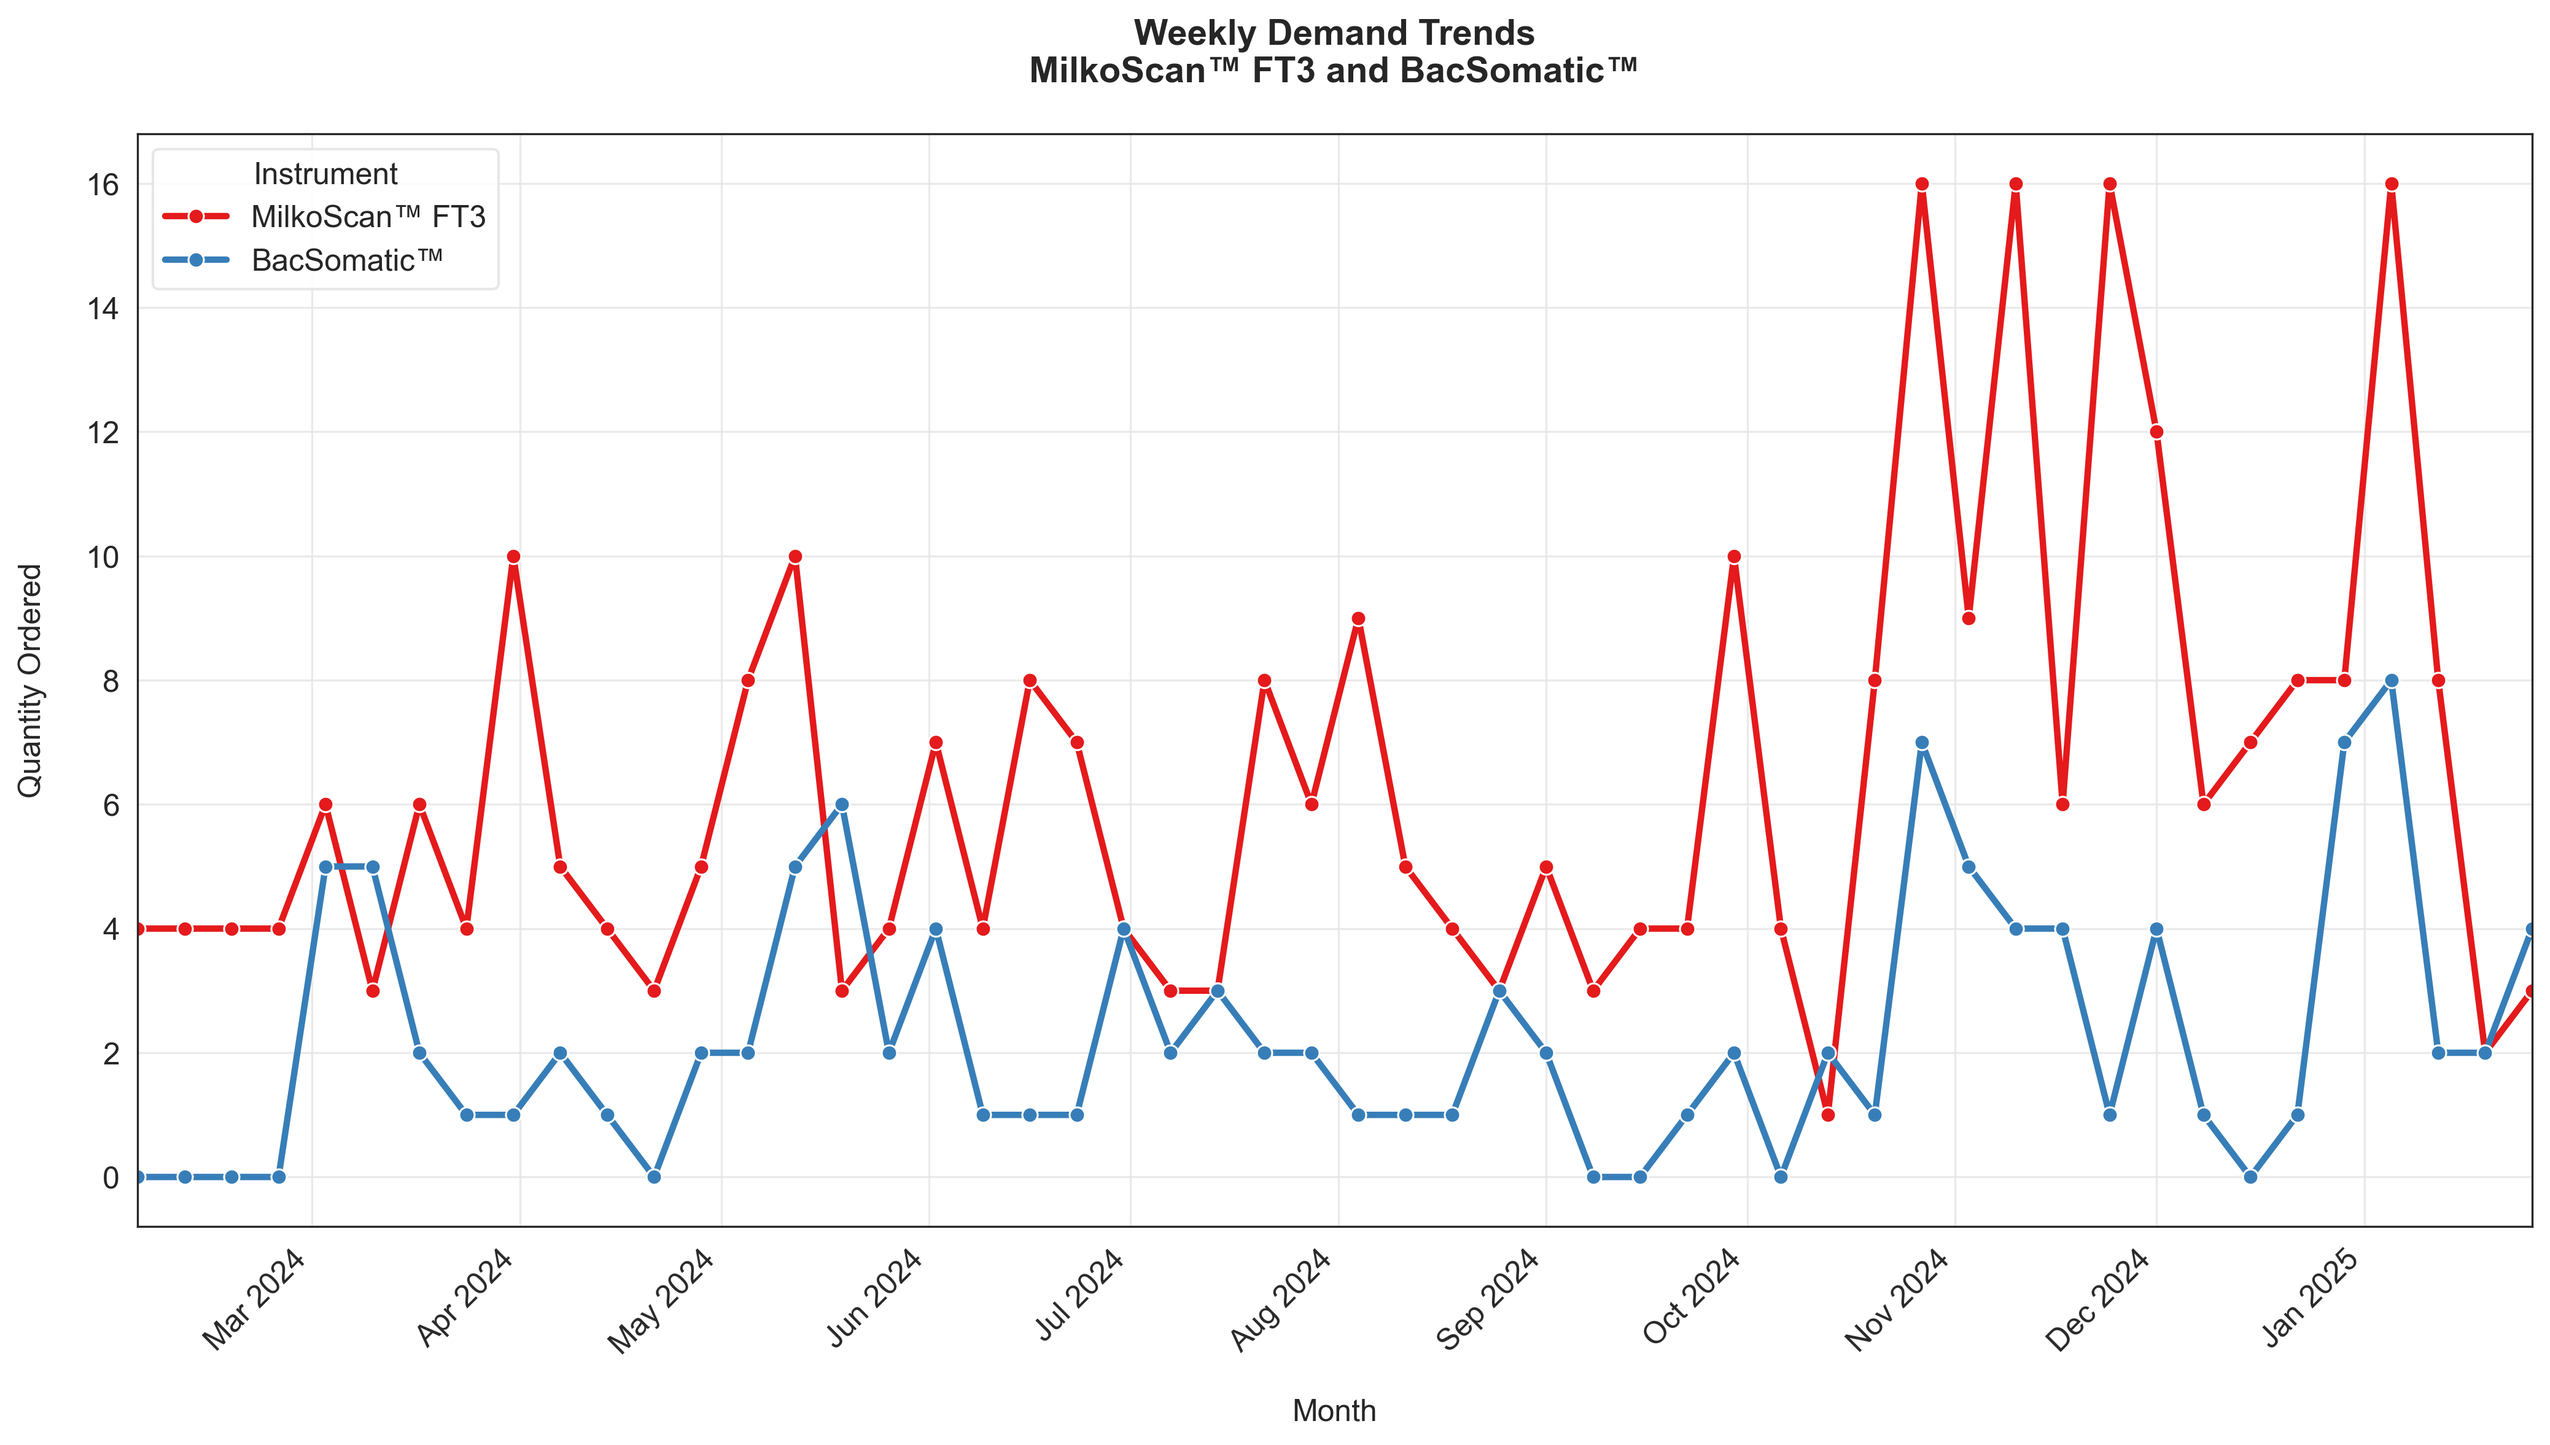
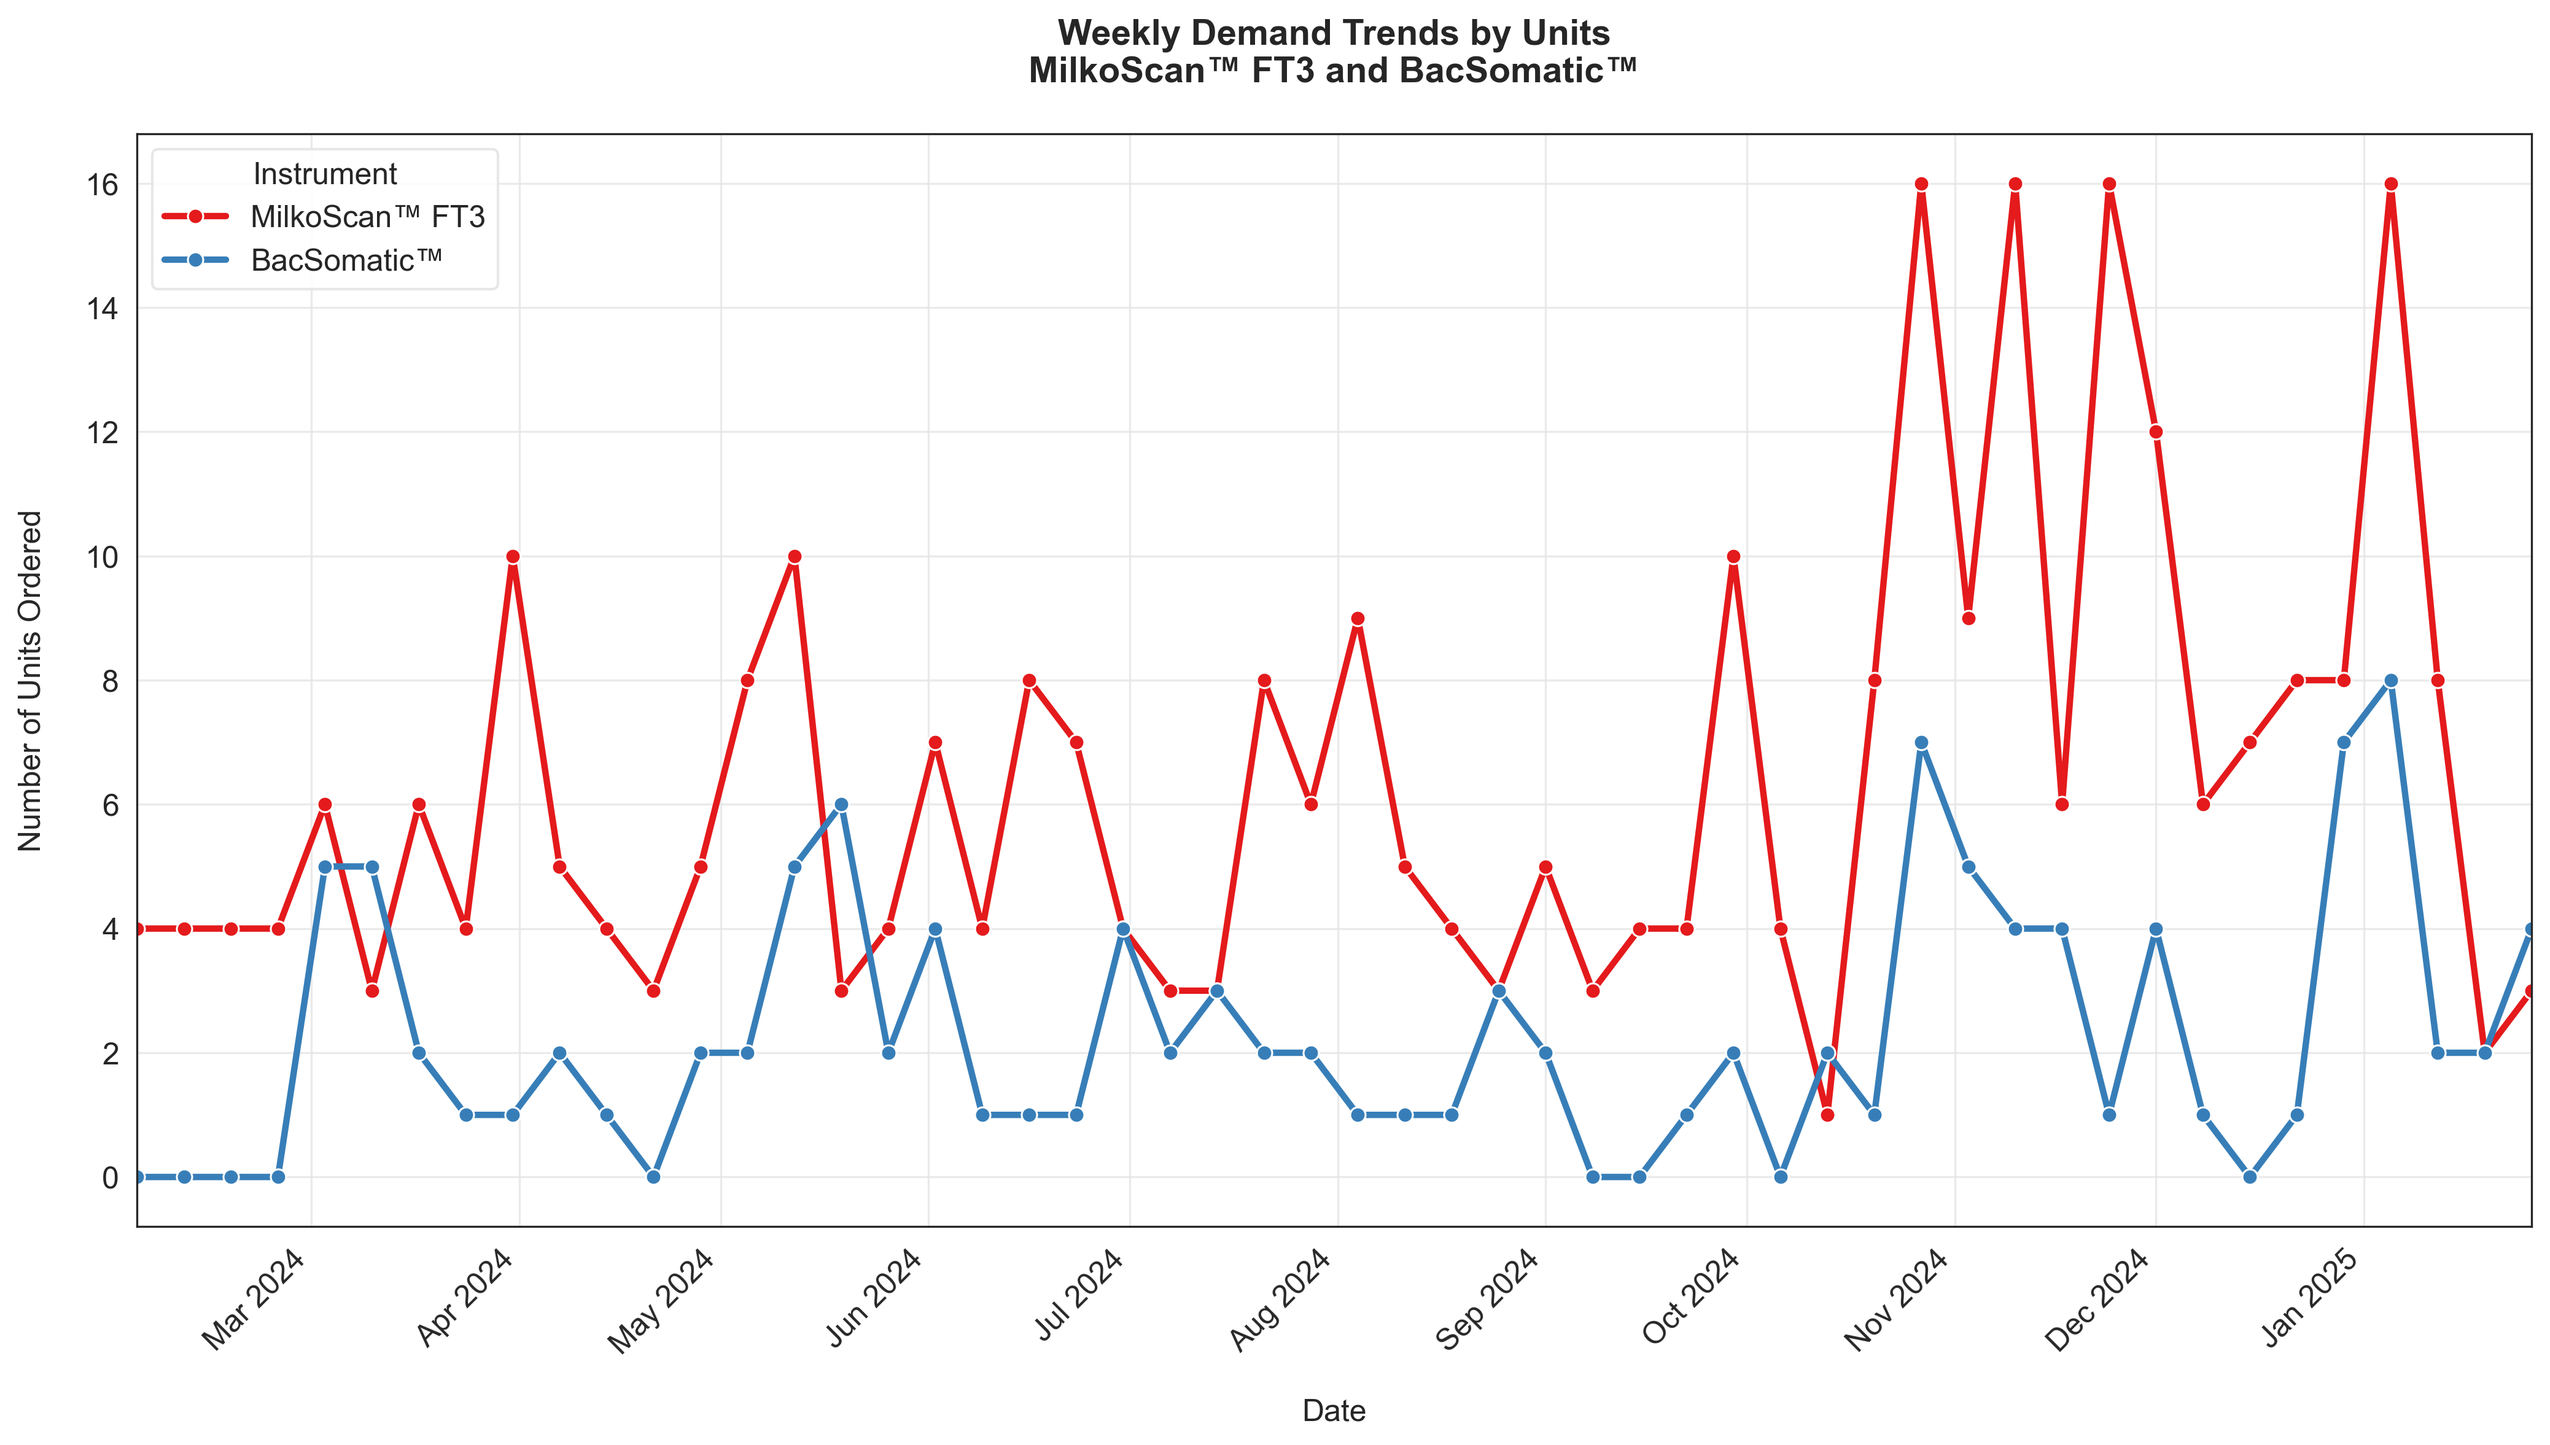
final plots

diff --git a/demand.py b/demand.py
@@ -109,6 +109,9 @@ data = pd.read_csv(file_path, encoding='Windows-1252')
 # Ensure the OrderDate column is in datetime format
 data['OrderDate'] = pd.to_datetime(data['OrderDate'], format='%d-%m-%y')
 
+# Convert the Qty. column to numeric to avoid string operations later
+data['Qty.'] = pd.to_numeric(data['Qty.'], errors='coerce').fillna(0)
+
 # Filter data for the specific instruments, including variations
 filtered_data = data[data['Instrument'].str.contains('MilkoScan™ FT3|BacSomatic™', na=False, case=False)]
 
@@ -151,8 +154,8 @@ for instrument in ['MilkoScan™ FT3', 'BacSomatic™']:
                 color=instrument_colors[instrument])
 
 set_consistent_date_axis(ax, weekly_data.index)
-apply_consistent_style(ax, "Weekly Demand Trends\nMilkoScan™ FT3 and BacSomatic™", 
-                      "Month", "Quantity Ordered", "Instrument")
+apply_consistent_style(ax, "Weekly Demand Trends by Units\nMilkoScan™ FT3 and BacSomatic™", 
+                      "Date", "Number of Units Ordered", "Instrument")
 
 plt.savefig(os.path.join(plots_dir, 'weekly_demand_smoothed.png'), dpi=300, bbox_inches='tight', facecolor='white')
 plt.close()
@@ -170,6 +173,60 @@ print(weekly_data.mean())
 
 print("\n=== HEAD OF RATIO TIME SERIES ===")
 print(weekly_data['Ratio_MilkoScan_to_BacSomatic'].head())
+
+# Calculate total sales by instrument
+total_sales_by_instrument = data.groupby('Instrument')['Qty.'].sum()
+total_units_sold = total_sales_by_instrument.sum()
+
+# Calculate market share - simplified version focused on FT3 and BacSomatic
+total_units_sold = data['Qty.'].sum()
+ft3_units = data[data['Instrument'].str.contains('MilkoScan™ FT3', na=False)]['Qty.'].sum()
+bac_units = data[data['Instrument'].str.contains('BacSomatic™', na=False)]['Qty.'].sum()
+other_units = total_units_sold - ft3_units - bac_units
+
+# Calculate percentages
+ft3_share = (ft3_units / total_units_sold * 100) if total_units_sold > 0 else 0
+bac_share = (bac_units / total_units_sold * 100) if total_units_sold > 0 else 0
+other_share = (other_units / total_units_sold * 100) if total_units_sold > 0 else 0
+
+# Print market share information
+print("\n=== Market Share Analysis ===")
+print(f"MilkoScan FT3: {ft3_share:.1f}% ({int(ft3_units)} units)")
+print(f"BacSomatic: {bac_share:.1f}% ({int(bac_units)} units)")
+print(f"Other Products: {other_share:.1f}% ({int(other_units)} units)")
+print(f"Total: {int(total_units_sold)} units")
+
+# Create pie chart of market share - simplified version
+plt.figure(figsize=(12, 8))
+market_data = [ft3_units, bac_units, other_units]
+labels = [f'MilkoScan FT3 ({ft3_share:.1f}%, {int(ft3_units)} units)', 
+          f'BacSomatic ({bac_share:.1f}%, {int(bac_units)} units)', 
+          f'Other Products ({other_share:.1f}%, {int(other_units)} units)']
+colors = [instrument_colors.get('MilkoScan™ FT3', colors[0]), 
+          instrument_colors.get('BacSomatic™', colors[1]), 
+          'lightgray']
+
+# Create donut chart with no labels inside
+wedges, _ = plt.pie(market_data, colors=colors, startangle=90, 
+                    wedgeprops=dict(width=0.5, edgecolor='white'),
+                    labels=[''] * len(market_data))  # Empty labels
+
+# Add legend with percentages and units
+plt.legend(wedges, labels,
+          title="Market Share Distribution (By Units Sold)",
+          loc="center left",
+          bbox_to_anchor=(1, 0.5))
+
+plt.title("Market Share Distribution by Units", pad=20, fontsize=16, fontweight='bold')
+
+# Ensure the pie chart appears circular
+plt.axis('equal')
+
+# Adjust layout to ensure legend is visible
+plt.tight_layout()
+plt.savefig(os.path.join(plots_dir, 'market_share.png'), 
+            dpi=300, bbox_inches='tight', facecolor='white')
+plt.close()
 
 # Visualization 2: Ratio over time
 fig, ax = plt.subplots(figsize=(14, 8), facecolor='white')
@@ -196,8 +253,8 @@ for instrument in ['MilkoScan™ FT3', 'BacSomatic™']:
                 color=instrument_colors[instrument])
 
 set_consistent_date_axis(ax, weekly_data.index)
-apply_consistent_style(ax, "Cumulative Demand Analysis\nMilkoScan™ FT3 and BacSomatic™", 
-                      "Date", "Cumulative Quantity", "Instrument")
+apply_consistent_style(ax, "Cumulative Demand Analysis by Units\nMilkoScan™ FT3 and BacSomatic™", 
+                      "Date", "Cumulative Units", "Instrument")
 
 plt.savefig(os.path.join(plots_dir, 'cumulative_demand.png'), dpi=300, bbox_inches='tight', facecolor='white')
 plt.close()
